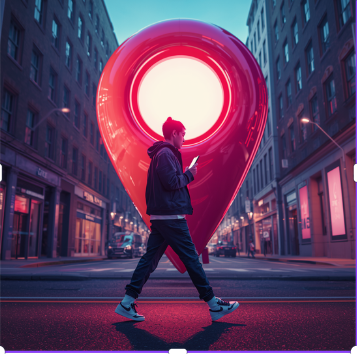
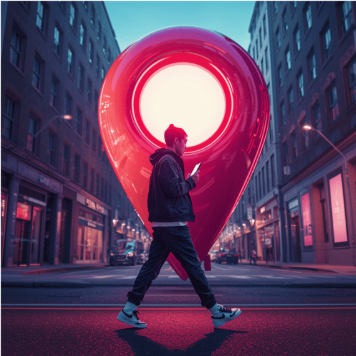
Enhance map interaction and update PWA assets for improved user experience
- Implemented functionality to prevent page scrolling while using the map, enhancing user interaction.
- Disabled zoom and fade animations in the map to reduce visual seams on iOS devices.
- Updated tile layer properties to improve rendering during zooming.
- Added new icons and updated versioning in index.html, manifest.webmanifest, and service worker for better asset management and compatibility.
- Introduced a new brand hero image for improved visual appeal.

diff --git a/styles.css b/styles.css
@@ -26,6 +26,14 @@ body{
   color: var(--text);
   -webkit-font-smoothing: antialiased;
   text-rendering: optimizeLegibility;
+  overscroll-behavior: none;
+}
+
+/* In Play view we lock page scroll so map gestures don't scroll the app. */
+body.is-play-view{
+  overflow: hidden;
+  height: 100dvh;
+  touch-action: none;
 }
 
 .container{
@@ -60,6 +68,7 @@ body{
   height: 42px;
   border-radius: 14px;
   object-fit: cover;
+  object-position: center 38%;
   box-shadow: var(--shadow);
   flex-shrink: 0;
   display: block;
@@ -94,13 +103,26 @@ body{
   border-radius: var(--radius-lg);
   border: 1px solid rgba(255,255,255,.10);
   box-shadow: var(--shadow);
-  background:
-    radial-gradient(900px 520px at 50% 40%, rgba(124,92,255,.22), transparent 60%),
-    radial-gradient(900px 620px at 70% 70%, rgba(46,229,157,.18), transparent 60%),
-    rgba(0,0,0,.18);
+  position: relative;
+  isolation: isolate;
   overflow: hidden;
+  background-color: #070a14;
+  background-image: url("./icons/brand-hero.png?v=10");
+  background-size: cover;
+  background-position: center 36%;
+}
+.splash::before{
+  content: "";
+  position: absolute;
+  inset: 0;
+  border-radius: inherit;
+  background: linear-gradient(180deg, rgba(7,10,20,.52) 0%, rgba(7,10,20,.86) 100%);
+  z-index: 0;
+  pointer-events: none;
 }
 .splash__text{
+  position: relative;
+  z-index: 1;
   font-weight: 950;
   letter-spacing: .02em;
   font-size: clamp(28px, 4.8vw, 54px);
@@ -360,7 +382,7 @@ input:focus{
 /* Fullscreen play layout: map + side panel overlay */
 .play{
   position: relative;
-  height: calc(100dvh - 74px);
+  height: calc(100dvh - 64px);
   min-height: 620px;
   border-radius: var(--radius);
   overflow: hidden;
@@ -654,7 +676,7 @@ input:focus{
 
 /* Mobile map gestures */
 #map{
-  touch-action: pan-x pan-y;
+  touch-action: none;
 }
 
 /* App-like bottom sheet affordance on mobile */
@@ -700,13 +722,26 @@ input:focus{
   border-radius: var(--radius-lg);
   border: 1px solid rgba(255,255,255,.10);
   box-shadow: var(--shadow);
-  background:
-    radial-gradient(900px 520px at 50% 40%, rgba(124,92,255,.18), transparent 60%),
-    radial-gradient(900px 620px at 70% 70%, rgba(46,229,157,.14), transparent 60%),
-    rgba(0,0,0,.18);
+  position: relative;
+  isolation: isolate;
   overflow: hidden;
+  background-color: #070a14;
+  background-image: url("./icons/brand-hero.png?v=10");
+  background-size: cover;
+  background-position: center 36%;
+}
+.loading::before{
+  content: "";
+  position: absolute;
+  inset: 0;
+  border-radius: inherit;
+  background: linear-gradient(180deg, rgba(7,10,20,.55) 0%, rgba(7,10,20,.88) 100%);
+  z-index: 0;
+  pointer-events: none;
 }
 .loading__card{
+  position: relative;
+  z-index: 1;
   width: min(520px, calc(100% - 32px));
   background: rgba(11,16,32,.62);
   border: 1px solid rgba(255,255,255,.14);
@@ -763,9 +798,15 @@ input:focus{
   border: 0.5px solid transparent;
   box-shadow: 0 0 1px rgba(0,0,0,.01);
   image-rendering: auto;
+  transform: translate3d(0,0,0);
+  will-change: transform;
 }
 .leaflet-tile-container{
-  transform: translateZ(0);
+  transform: translate3d(0,0,0);
+  backface-visibility: hidden;
+}
+.leaflet-zoom-animated{
+  transform: translate3d(0,0,0);
 }
 .maplibregl-canvas{
   outline: none;

diff --git a/app.js b/app.js
@@ -1056,6 +1056,8 @@ function setView(view) {
   for (const btn of document.querySelectorAll(".nav__btn")) {
     btn.classList.toggle("is-active", btn.dataset.view === view);
   }
+  // Prevent the page from scrolling while using the map.
+  document.body.classList.toggle("is-play-view", view === "play");
 }
 
 function formatKm(m) {
@@ -1319,18 +1321,44 @@ function ensureMap() {
     return;
   }
   if (map) return;
-  map = L.map("map", { zoomControl: true });
+  // Disable zoom/fade animations to avoid visible “tile grid” seams on iOS while pinching.
+  map = L.map("map", {
+    zoomControl: true,
+    zoomAnimation: false,
+    fadeAnimation: false,
+    markerZoomAnimation: false,
+  });
   // Satellite-like fallback (no API key) so the screen is always a map.
   // Esri World Imagery is widely compatible in browsers.
   map2dLayer = L.tileLayer("https://server.arcgisonline.com/ArcGIS/rest/services/World_Imagery/MapServer/tile/{z}/{y}/{x}", {
     maxZoom: 19,
     detectRetina: true,
-    updateWhenIdle: false,
-    updateWhenZooming: true,
+    // Keep old tiles while zooming, then swap when finished → fewer seams.
+    updateWhenIdle: true,
+    updateWhenZooming: false,
     keepBuffer: 8,
     attribution:
       'Tiles &copy; <a href="https://www.esri.com/" target="_blank" rel="noreferrer">Esri</a> • Data &copy; <a href="https://www.openstreetmap.org/copyright" target="_blank" rel="noreferrer">OpenStreetMap</a> contributors',
   }).addTo(map);
+
+  // Stop map gestures from scrolling the page / triggering navigation taps.
+  try {
+    const c = map.getContainer();
+    if (c && L?.DomEvent) {
+      L.DomEvent.disableClickPropagation(c);
+      L.DomEvent.disableScrollPropagation(c);
+      // iOS Safari: prevent the page from moving while pinching/dragging inside the map.
+      c.addEventListener(
+        "touchmove",
+        (e) => {
+          e.preventDefault();
+        },
+        { passive: false },
+      );
+    }
+  } catch {
+    // ignore
+  }
 
   const start = { lat: 59.9139, lng: 10.7522 }; // Oslo fallback
   map.setView([start.lat, start.lng], 14);

diff --git a/index.html b/index.html
@@ -9,11 +9,12 @@
     <meta name="description" content="Gå Appen: gå eller sykle til skolen, få poeng og vinn lokalt." />
     <link rel="canonical" href="." />
     <meta name="robots" content="index,follow" />
-    <link rel="manifest" href="./manifest.webmanifest?v=8" />
-    <link rel="icon" href="./icons/icon.svg?v=8" type="image/svg+xml" />
+    <link rel="manifest" href="./manifest.webmanifest?v=10" />
+    <link rel="icon" href="./icons/pwa-192.png?v=10" type="image/png" sizes="192x192" />
+    <link rel="icon" href="./icons/icon.svg?v=10" type="image/svg+xml" />
     <!-- iOS bruker PNG; faste nye filnavn (pwa-180) for å unngå evig hurtigbuffer -->
-    <link rel="apple-touch-icon" href="./icons/pwa-180.png" />
-    <link rel="apple-touch-icon" sizes="180x180" href="./icons/pwa-180.png" />
+    <link rel="apple-touch-icon" href="./icons/pwa-180.png?v=10" />
+    <link rel="apple-touch-icon" sizes="180x180" href="./icons/pwa-180.png?v=10" />
     <link rel="stylesheet" href="./styles.css" />
     <link
       rel="stylesheet"
@@ -33,7 +34,7 @@
         <div class="brand">
           <img
             class="brand__logo"
-            src="./icons/icon.svg?v=8"
+            src="./icons/brand-hero.png?v=10"
             width="42"
             height="42"
             alt=""

diff --git a/sw.js b/sw.js
@@ -1,4 +1,4 @@
-const VERSION = "ga-appen-pwa-v37";
+const VERSION = "ga-appen-pwa-v41";
 
 // Cache only our own assets. (CDN tiles/libs are left to the browser.)
 const CORE_ASSETS = [
@@ -9,11 +9,12 @@ const CORE_ASSETS = [
   "./manifest.webmanifest",
   "./robots.txt",
   "./sitemap.xml",
+  "./icons/brand-hero.png",
   "./icons/pwa-180.png",
   "./icons/pwa-192.png",
   "./icons/pwa-512.png",
-  "./icons/icon.svg?v=8",
-  "./icons/icon-maskable.svg?v=8",
+  "./icons/icon.svg?v=10",
+  "./icons/icon-maskable.svg?v=10",
 ];
 
 self.addEventListener("install", (event) => {
